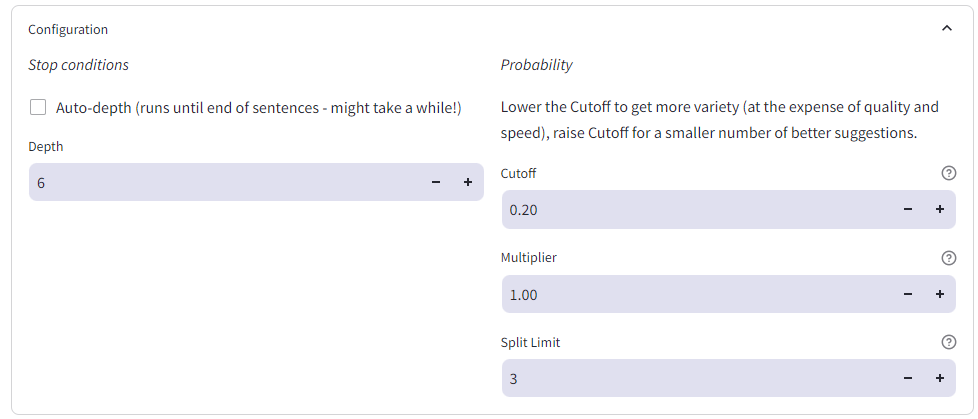
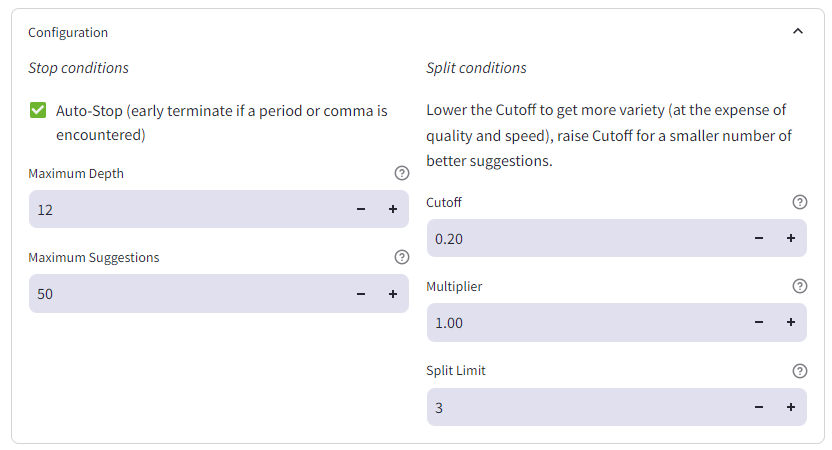
document latest config options

diff --git a/lloom.py b/lloom.py
@@ -47,7 +47,7 @@ def main():
         depth = config_cols[0].number_input("Maximum Depth", min_value=1, max_value=50, value=12, help="Stop when a sugguestion gets this long")
         maxsuggestions = config_cols[0].number_input("Maximum Suggestions", min_value=10, max_value=200, value=50, help="Stop when the number of suggestions hits this limit")
         
-        config_cols[1].markdown('_Probability_\n\nLower the Cutoff to get more variety (at the expense of quality and speed), raise Cutoff for a smaller number of better suggestions.')
+        config_cols[1].markdown('_Split conditions_\n\nLower the Cutoff to get more variety (at the expense of quality and speed), raise Cutoff for a smaller number of better suggestions.')
         cutoff = config_cols[1].number_input("Cutoff", help="Minimum propability of a token to have it split a new suggestion beam", min_value=0.0, max_value=1.0, value=0.2, step=0.01)
         multiplier = config_cols[1].number_input("Multiplier", help="The cutoff is scaled by Multiplier each time a new token is generated", min_value=0.0, max_value=2.0, value=1.0, step=0.1)
         maxsplits = config_cols[1].number_input("Split Limit", help="The maximum number of splits from a single source token, raise to get more variety.", min_value=0, max_value=10, value=3)

diff --git a/README.md b/README.md
@@ -65,13 +65,17 @@ You can open the Configuration dropdown at the top at any time to adjust paramet
 
 ![LLooM Screenshot](config.png "LLooM Screenshot")
 
+The parameters are grouped into two sections: when to stop, and when to split.
+
 ## Stop Conditions
 
-`Depth` How many tokens to generate per suggestion beam.
+`Auto-Stop` Early-terminate suggestion beams when a "." or "," character in encountered.
 
-`Auto-Depth` Terminate suggestion beams on "." or "," instead of a fixed token length
+`Max Depth` The maximum number of tokens a suggestion beam can have. Note that if you disable the Auto-Stop condition, then all beams will have exactly this number of tokens.
 
-## Probabilities
+`Maximum Suggestions` The maximum number of completed suggestion beams to return (this can be really useful to limit run-time if the model is slow).
+
+## Split Conditions
 
 `Cutoff` The minimum token propability (0.0 - 1.0) to spawn a new thread.
 
